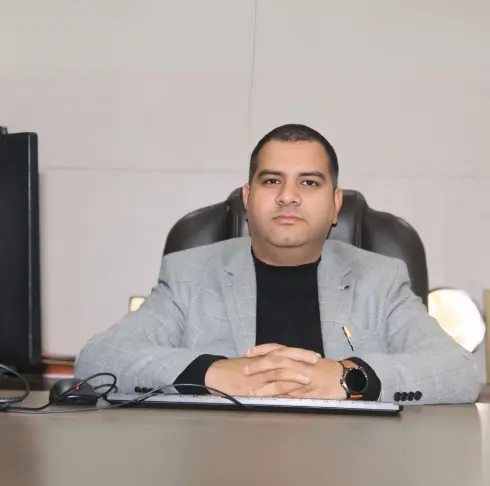
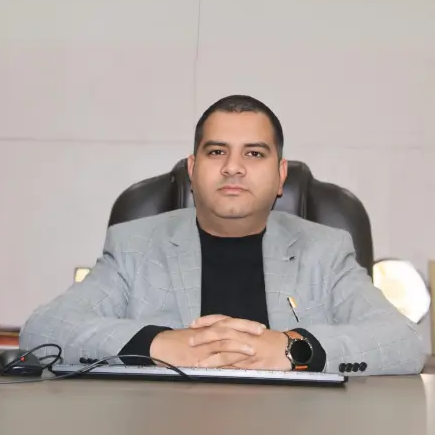
fix leader page

diff --git a/src/app/about/leadership/page.tsx b/src/app/about/leadership/page.tsx
@@ -20,7 +20,7 @@ export default async function LeadershipPage() {
           src={hero.backgroundImage || "/assets/hero/hero7.JPG"}
           alt={hero.title}
           fill
-          className="object-cover"
+          className="object-cover object-center"
           sizes="100vw"
           priority
         />
@@ -79,9 +79,9 @@ function LeadershipPanel({
 
   return (
     <article className="rounded-4xl border border-slate-100 bg-white p-6 shadow-[0_20px_45px_rgba(15,23,42,0.08)] lg:p-10">
-      <div className="grid gap-10 lg:grid-cols-2">
+      <div className="grid gap-10 lg:grid-cols-12">
         <div
-          className={`order-2 flex flex-col gap-6 ${imageLeft ? "lg:order-2" : "lg:order-1"}`}
+          className={`order-2 flex flex-col gap-6 lg:col-span-8 ${imageLeft ? "lg:order-2" : "lg:order-1"}`}
         >
           <div>
             <p className="text-sm font-semibold uppercase tracking-[0.3em] text-brand-600">
@@ -158,14 +158,14 @@ function LeadershipPanel({
             </div>
           ) : null}
         </div>
-        <div className={`order-1 ${imageLeft ? "lg:order-1" : "lg:order-2"}`}>
-          <div className="relative isolate h-full overflow-hidden rounded-3xl border border-slate-200 bg-slate-900">
+        <div className={`order-1 lg:col-span-4 ${imageLeft ? "lg:order-1" : "lg:order-2"}`}>
+          <div className="relative isolate h-[420px] lg:h-full overflow-hidden rounded-3xl border border-slate-200 bg-slate-900">
             {leader.image ? (
               <Image
                 src={leader.image}
                 alt={leader.name}
                 fill
-                className=""
+                className="object-cover object-center"
                 sizes="(min-width: 1024px) 560px, 100vw"
               />
             ) : (
